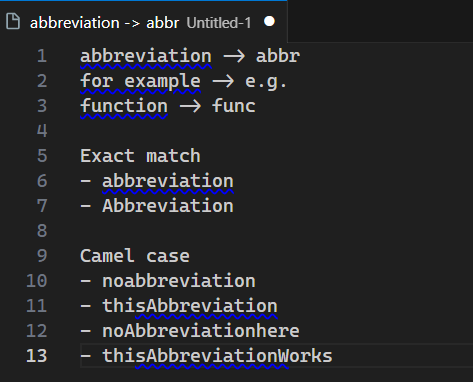
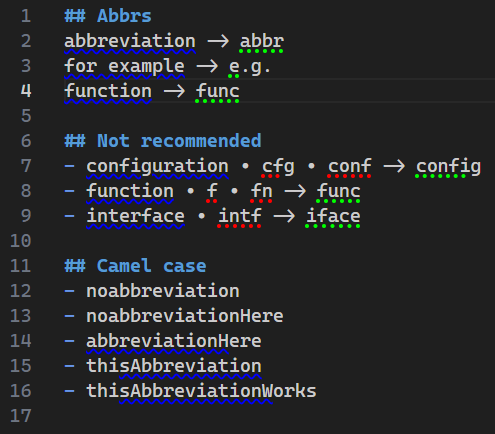
README 0.0.3 new features

diff --git a/README.md b/README.md
@@ -16,5 +16,7 @@ Highlight abbrs in your code
 
 ## Features
 
-- Underline words that can be abbreviated
+- Underline possible abbrs
+- Underline abbrs
+- Underline not recommended
 - Match abbrs using camel case notation
